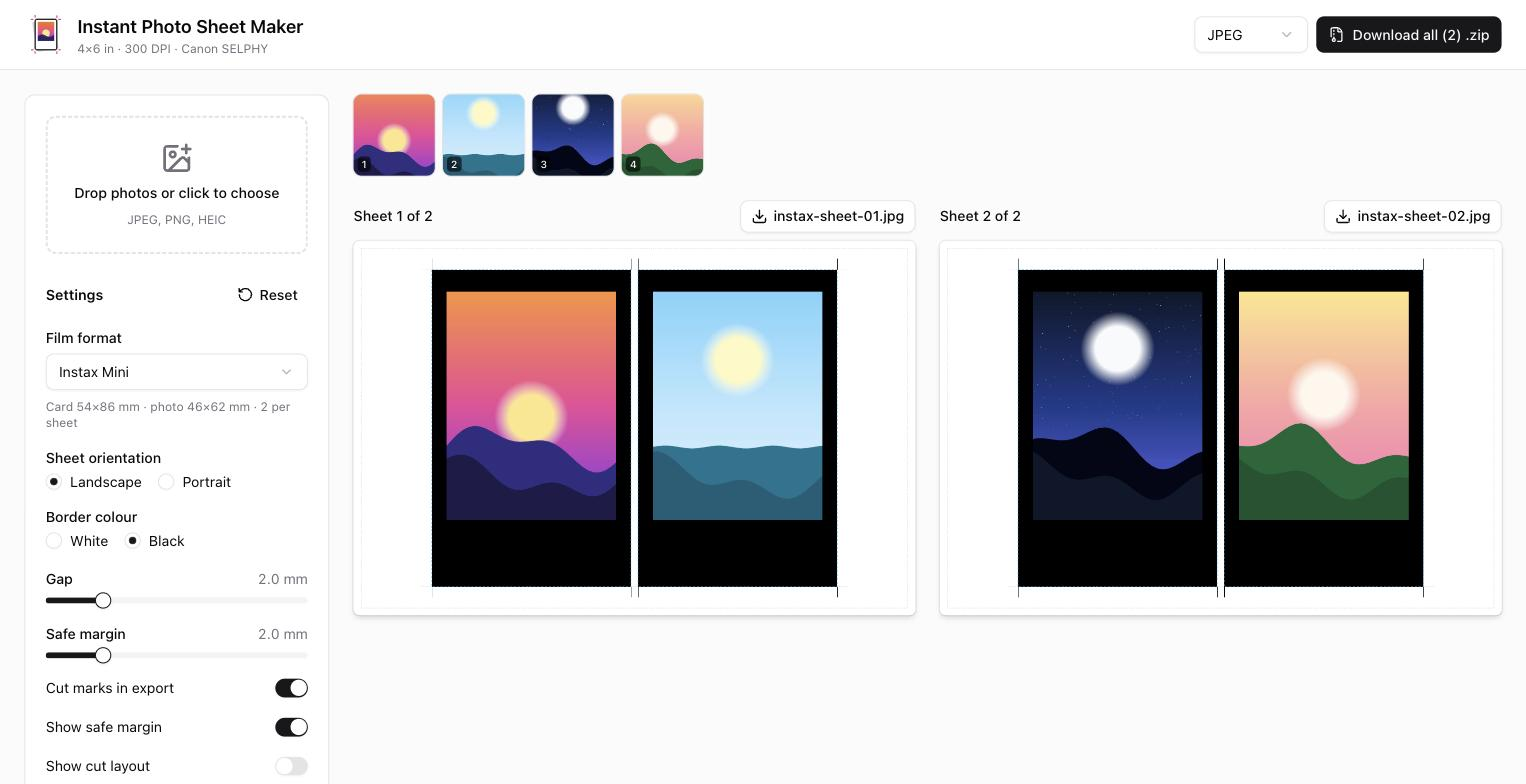
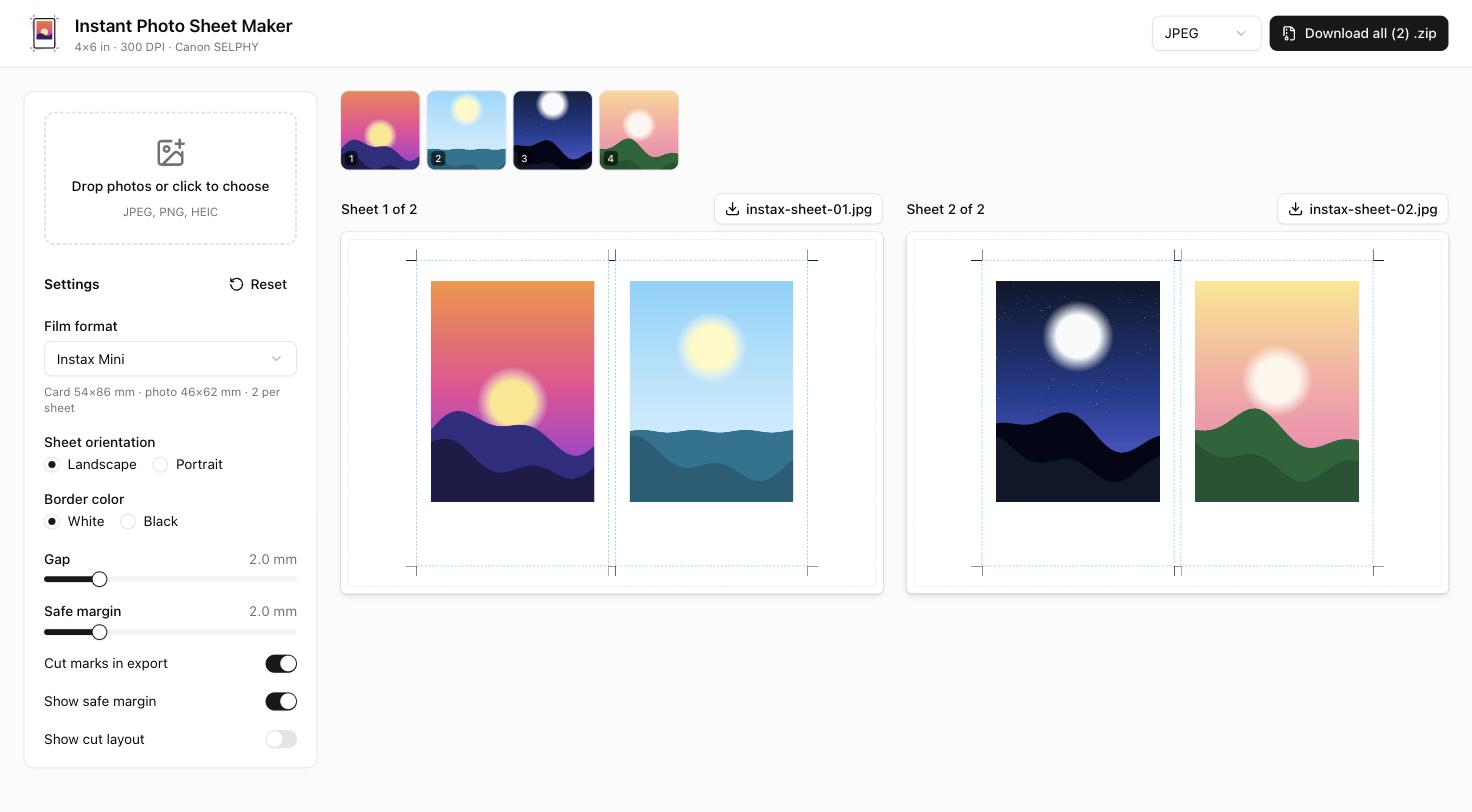
Use "Border color" spelling and white-border README screenshot

diff --git a/src/components/SettingsPanel.tsx b/src/components/SettingsPanel.tsx
@@ -157,7 +157,7 @@ export function SettingsPanel({
         onChange={(orientation) => onChange({ orientation })}
       />
       <Choice
-        label="Border colour"
+        label="Border color"
         value={settings.borderColor}
         options={[
           { value: 'white', label: 'White' },

diff --git a/README.md b/README.md
@@ -9,7 +9,7 @@
 </p>
 
 <p align="center">
-  <img src="docs/screenshot.jpg" alt="Two 4×6 sheets with Instax Mini prints, black borders and cut marks" />
+  <img src="docs/screenshot.jpg" alt="Two 4×6 sheets with Instax Mini prints, white borders and cut marks" />
 </p>
 
 ## What it does
